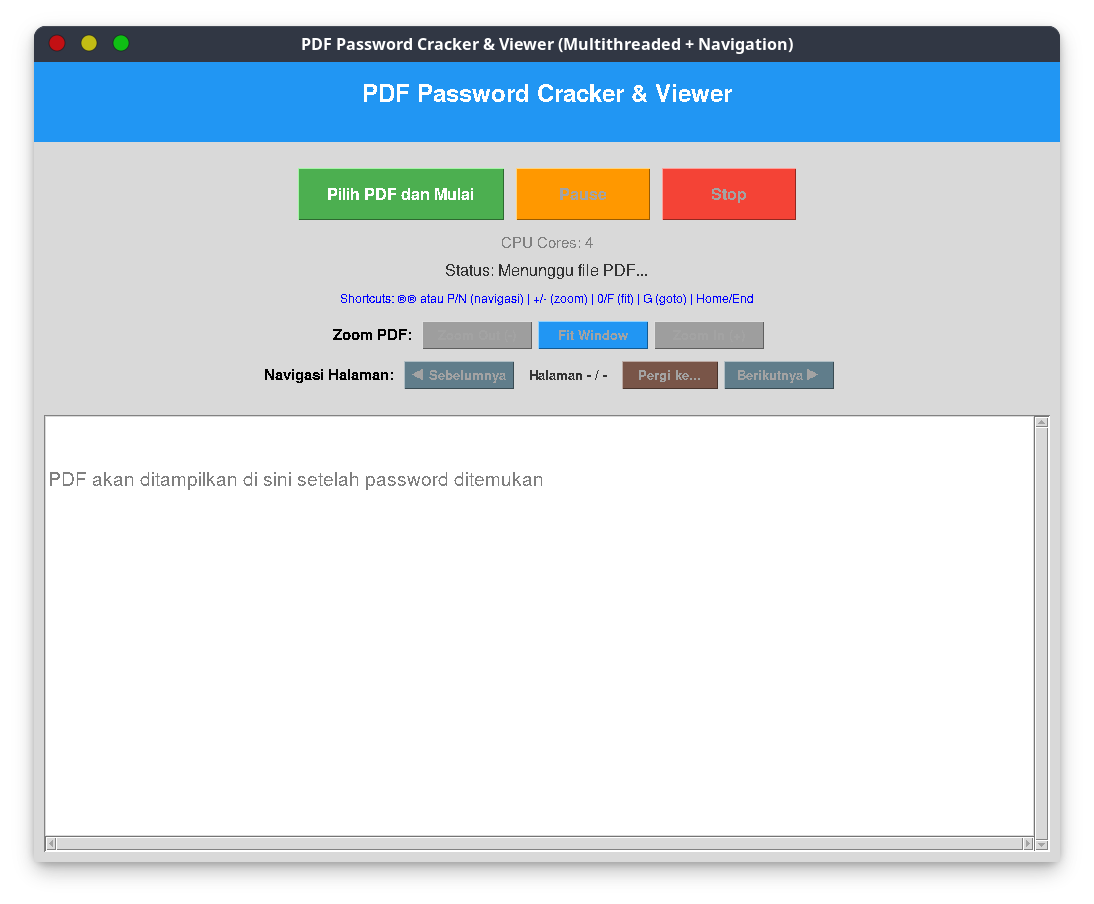
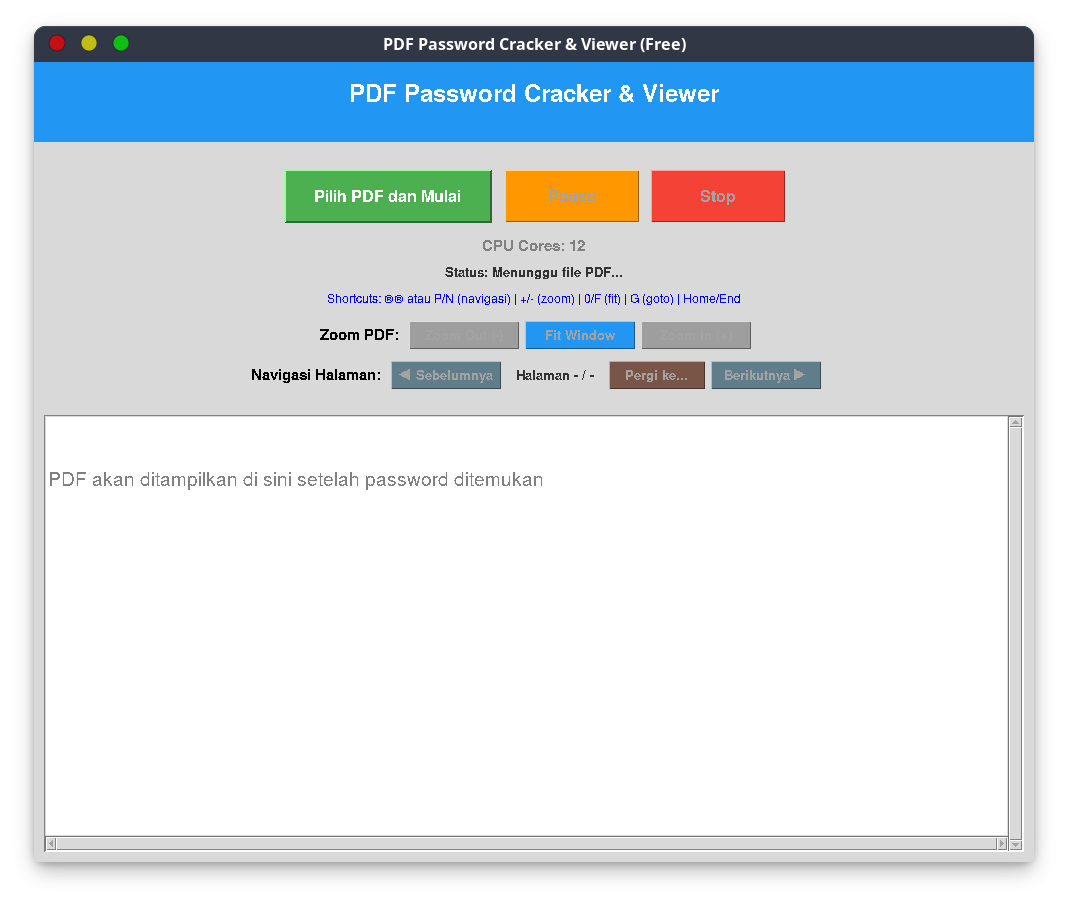
Update README for clarity, enhance UI button properties, and improve progress monitor display

diff --git a/ui/progress_monitor.py b/ui/progress_monitor.py
@@ -22,7 +22,7 @@ class ProgressMonitor:
         
         # Animation properties
         self.animation_frame = 0
-        self.spinner_chars = ["⠋", "⠙", "⠹", "⠸", "⠼", "⠴", "⠦", "⠧", "⠇", "⠏"]
+        self.spinner_chars = ["|", "/", "-", "\\"]
         self.current_password_attempt = ""
         self.last_update = time.time()
         self.update_counter = 0
@@ -129,35 +129,25 @@ class ProgressMonitor:
                     filled = int((percentage / 100) * bar_width)
                     bar = "█" * filled + "░" * (bar_width - filled)
                     
-                    # Emoji status
-                    if percentage < 25:
-                        progress_emoji = "🔍"
-                    elif percentage < 50:
-                        progress_emoji = "⚡"
-                    elif percentage < 75:
-                        progress_emoji = "🚀"
-                    else:
-                        progress_emoji = "🎯"
-                    
                     # Password yang sedang dicoba
                     current_pwd_display = self.current_password_attempt if self.current_password_attempt else "..."
                     
                     status_text = (
-                        f"{spinner} {progress_emoji} Proses Membuka Password PDF {progress_emoji} {spinner}\n"
+                        f"{spinner} Proses Membuka Password PDF... {spinner}\n"
                         f"Progress: [{bar}] {percentage:.2f}%\n"
-                        f"🔢 Jumlah percobaan: {self.current_progress['tested']:,} dari {self.current_progress['total']:,}\n"
-                        f"⚡ Kecepatan: {rate:.0f} percobaan/detik\n"
-                        f"⏱ Waktu berjalan: {format_time(elapsed)}\n"
-                        f"⏳ Estimasi sisa: {format_time(eta_seconds)}\n"
-                        f"🔑 Password yang sedang dicoba: {current_pwd_display}"
+                        f"Jumlah percobaan: {self.current_progress['tested']:,} dari {self.current_progress['total']:,}\n"
+                        f"Kecepatan: {rate:.0f} percobaan/detik\n"
+                        f"Waktu berjalan: {format_time(elapsed)}\n"
+                        f"Estimasi sisa: {format_time(eta_seconds)}\n"
+                        f"Password yang sedang dicoba: {current_pwd_display}"
                     )
                 else:
                     # Awal proses atau progress sangat awal
                     status_text = (
-                        f"{spinner} 🚀 Memulai proses brute force... 🚀 {spinner}\n"
-                        f"⏱ Waktu berjalan: {format_time(elapsed)}\n"
-                        f"⚙ Menyiapkan proses pencarian password...\n"
-                        f"🔑 Password yang sedang dicoba: {self.current_password_attempt if self.current_password_attempt else 'Belum mulai'}"
+                        f"{spinner} Memulai proses brute force... {spinner}\n"
+                        f"Waktu berjalan: {format_time(elapsed)}\n"
+                        f"Menyiapkan proses pencarian password...\n"
+                        f"Password yang sedang dicoba: {self.current_password_attempt if self.current_password_attempt else 'Belum mulai'}"
                     )
                 
                 self.status_label.config(text=status_text)

diff --git a/main.py b/main.py
@@ -29,7 +29,7 @@ class PDFCrackerApp:
     
     def setup_window(self):
         """Setup main window properties"""
-        self.root.title("PDF Password Cracker & Viewer (Multithreaded + Navigation)")
+        self.root.title("PDF Password Cracker & Viewer (Free)")
         self.root.geometry("1000x800")
         self.root.minsize(900, 700)
     
@@ -62,7 +62,8 @@ class PDFCrackerApp:
         self.tombol_buka = tk.Button(button_frame, text="Pilih PDF dan Mulai", 
                                     command=self.buka_file_dialog, 
                                     bg="#4CAF50", fg="white", 
-                                    font=("Arial", 12, "bold"), width=20, height=2)
+                                    font=("Arial", 12, "bold"), width=20, height=2, 
+                                    state="normal", relief="raised", bd=2, highlightthickness=2)
         self.tombol_buka.pack(side=tk.LEFT, padx=5)
 
         self.tombol_pause = tk.Button(button_frame, text="Pause", 
@@ -144,11 +145,11 @@ class PDFCrackerApp:
         self.tombol_next.pack(side=tk.LEFT, padx=2)
 
         cpu_info = tk.Label(info_frame, text=f"CPU Cores: {multiprocessing.cpu_count()}", 
-                           font=("Arial", 11), fg="gray")
+                           font=("Arial", 11, "bold"), fg="gray")
         cpu_info.pack()
 
         self.status_label = tk.Label(info_frame, text="Status: Menunggu file PDF...", 
-                                    font=("Arial", 12), wraplength=800, fg="#333")
+                                    font=("Arial", 10, "bold"), wraplength=800, fg="#333", anchor="w")
         self.status_label.pack(pady=5)
 
         # PDF display frame dengan scrollbar
@@ -251,8 +252,8 @@ class PDFCrackerApp:
             self.root,
             "Pilih Mode Password",
             "Pilih mode password yang ingin dicoba:\n\n"
-            "6 Digit: 000000 - 999999 (Relatif cepat)\n"
-            "8 Digit: 00000000 - 99999999 (Lebih lama)\n\n"
+            "6 Digit: 000000 - 999999\n"
+            "8 Digit: 00000000 - 99999999\n\n"
             "Pilih mode yang sesuai dengan password PDF Anda:",
             [
                 ("6 Digit", True, "#4CAF50"),
@@ -271,8 +272,8 @@ class PDFCrackerApp:
             self.root,
             "Pilih Metode Pemrosesan",
             f"Pilih metode pemrosesan untuk mencari password:\n\n"
-            f"Multithreading: Menggunakan {cpu_count} CPU cores - CEPAT\n"
-            f"Single Thread: Menggunakan 1 core - Lambat tapi stabil\n\n"
+            f"Multithreading: Menggunakan {cpu_count} CPU cores\n"
+            f"Single Thread: Menggunakan 1 core\n\n"
             f"Rekomendasi: Gunakan Multithreading untuk performa terbaik",
             [
                 ("Multithreading", True, "#4CAF50"),
@@ -502,7 +503,7 @@ class PDFCrackerApp:
         # Peringatan untuk 8-digit single thread
         konfirmasi = show_custom_dialog(
             self.root,
-            "PERINGATAN KERAS - 8 Digit Single Thread",
+            "PERINGATAN - 8 Digit Single Thread",
             "Mode 8 digit single-thread akan memakan waktu yang lebih lama!\n\n"
             "100,000,000 kombinasi password akan dicoba secara berurutan\n"
             "Tidak ada pause/resume support untuk mode ini\n\n"

diff --git a/README.md b/README.md
@@ -2,13 +2,13 @@
 
 Aplikasi ini membantu Anda membuka file PDF yang terkunci password dengan metode brute force (coba semua kombinasi angka 6 atau 8 digit), serta dilengkapi penampil PDF yang lengkap dan mudah digunakan.
 
-> **PENTING!**
+> [!IMPORTANT] 
 > Aplikasi ini hanya untuk pembelajaran. Membuka file PDF yang dilindungi tanpa izin adalah tindakan ilegal.
 
-> **PERINGATAN!**
+> [!WARNING] 
 > Pastikan Anda memang berhak membuka file PDF tersebut. Gunakan aplikasi ini hanya untuk file milik Anda atau yang Anda punya izin untuk membukanya.
 
-> **DISCLAIMER**
+> [!CAUTION]  
 > Pengembang tidak bertanggung jawab atas penyalahgunaan aplikasi ini.
 
 ![Tampilan Aplikasi](image.png)
@@ -65,25 +65,35 @@ pdf-viewer/
 
 ### **Syarat:**
 
-- Python 3.7+
+- Python 3.7+ =====> [Cara Install Python di Windows, Linux dan MacOS](https://www.codepolitan.com/blog/cara-install-python-di-windows-macos-dan-linux-lengkap/)
 - Dependensi: `PyMuPDF`, `Pillow`, `tkinter`
 
 ### **Instalasi:**
 
 ```bash
 git clone https://github.com/alrescha79-cmd/buka-paksa-pdf.git pdf-viewer
+```
+
+```bash
 cd pdf-viewer
+```
+
+```bash
 pip install -r requirements.txt
 ```
 
 ### **Menjalankan Aplikasi:**
 
-```bash
-# Jalankan langsung
-tpython main.py
+Jalankan langsung
 
-# Atau pakai launcher
-tpython launcher.py
+```bash
+python main.py
+```
+
+Atau pakai launcher
+
+```bash
+python launcher.py
 ```
 
 ## 📋 Cara Penggunaan
@@ -186,5 +196,16 @@ sudo dnf install python3-tkinter # Fedora
 | **Rendering**    | Pillow (PIL)     | Tampilkan halaman PDF        |
 | **Threading**    | concurrent.futures| Paralel brute force password |
 | **Range Password**| Angka brute force| 6 digit: 1 juta, 8 digit: 100 juta |
+
+---
+
+## Kontribusi
+
+Anda dipersilakan untuk berkontribusi pada proyek ini. Berikut beberapa cara Anda bisa membantu:
+
+- **Laporkan Bug:** Jika Anda menemukan bug atau masalah, silakan laporkan di bagian "Issues" di GitHub.
+- **Ajukan Fitur Baru:** Punya ide untuk fitur baru? Ajukan di bagian "Issues" atau buat pull request.
+- **Perbaiki Dokumentasi:** Bantulah memperbaiki dokumentasi agar lebih jelas dan lengkap.
+- **Kode:** Jika Anda seorang pengembang, Anda bisa membantu dengan mengirimkan pull request untuk memperbaiki bug atau menambahkan fitur baru. memperbaiki dokumentasi agar lebih jelas dan lengkap.
 
 ---
